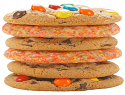
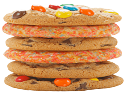
took out white background of pictures, added meta viewport

diff --git a/cookies.html b/cookies.html
@@ -3,6 +3,7 @@
 
 <head>
   <meta charset="utf-8">
+  <meta name="viewport" content="width=device-width, initial-scale=1">
   <meta name="description" content="Ice Cream Website">
   <meta name="keywords" content="treat, ice cream, maggie moos, cookies, cake, yum, good, delicious">
   <meta name="author" content="HDH">
@@ -38,7 +39,7 @@
 
   </header>
 
-
+ <!--Start of Cake, Cupcakes, and Cookies list with pictures-->
   <div class="container-fluid">
     <div class="row">
       <div class="col-md-12">
@@ -250,7 +251,7 @@
                 <h6>*Varies depending on choice</h6>
               </div>
               <div class="col-md-6 pink">
-                <img src="img/bday.jpg" alt="">
+                <img src="img/bday.png" alt="">
               </div>
             </div>
             <div class="row">
@@ -259,7 +260,7 @@
                 <h6>*Varies depending on choice</h6>
               </div>
               <div class="col-md-6 green">
-                <img src="img/season.jpg" alt="">
+                <img src="img/season.png" alt="">
               </div>
             </div>
             <div class="row">
@@ -268,7 +269,7 @@
                 <h6>*Varies depending on choice</h6>
               </div>
               <div class="col-md-6 purple">
-                <img src="img/cakeme.jpg" alt="">
+                <img src="img/cakeme.png" alt="">
               </div>
             </div>
             <div class="row">
@@ -277,7 +278,7 @@
                 <h6>*Varies depending on choice</h6>
               </div>
               <div class="col-md-6 yellow">
-                <img src="img/extra.jpg" alt="">
+                <img src="img/extra.png" alt="">
               </div>
             </div>
             <div class="row">
@@ -286,7 +287,7 @@
                 <h6>*Varies depending on choice</h6>
               </div>
               <div class="col-md-6 purple">
-                <img src="img/mom.jpg" alt="">
+                <img src="img/mom.png" alt="">
               </div>
             </div>
             <div class="row">
@@ -295,7 +296,7 @@
                 <h6>*Varies depending on choice</h6>
               </div>
               <div class="col-md-6 blue">
-                <img src="img/cheer.jpg" alt="">
+                <img src="img/cheer.png" alt="">
               </div>
             </div>
             <div class="row">
@@ -304,7 +305,7 @@
                 <h6>*Varies depending on choice</h6>
               </div>
               <div class="col-md-6 green">
-                <img src="img/thegrad.jpg" alt="">
+                <img src="img/thegrad.png" alt="">
               </div>
             </div>
           </div>
@@ -477,7 +478,7 @@
                   <h6>240 Calories</h6>
                 </div>
                 <div class="col-md-3">
-                  <img src="img/m&m.png" alt="">
+                  <img src="img/mm.png" alt="">
                 </div>
               </div>
               <div class="row">
@@ -486,7 +487,7 @@
                   <h6>250 Calories</h6>
                 </div>
                 <div class="col-md-3">
-                  <img src="img/pbm&m.png" alt="">
+                  <img src="img/pbmm.png" alt="">
                 </div>
                 <div class="col-md-3">
                   <h5>Original Chocolate Chip</h5>

diff --git a/index.html b/index.html
@@ -76,7 +76,7 @@
           five Blue Ribbon Awards from the National Ice Cream Retailer’s Association. Our ice cream and low fat yogurt are made fresh just for you! We have over 40 flavors and many fruits, candy or nut mix-ins to choose from. Who ever said you can’t
           it have it all, should call Maggie Moo’s.
         </p>
-        <p><a class="btn link" href="file:///C:/Users/kolbee.hulsey/Documents/GitHub/Maggie-Moos/icecream.html">View details »</a></p>
+        <p><a class="btn link" href="icecream.html">View details »</a></p>
       </div>
       <div class="col-md-4">
         <h2>Cake</h2>
@@ -84,7 +84,7 @@
           Our beloved ice cream cakes are hand-crafted with love and perfection just for you! They are excellent for any event or special occasion. With mix-ins from yummy fruits, nuts, and the sweetest candies and most delicious cookies. To top it
           off we slather on a rich icing to have your taste bud watering.
         </p>
-        <p><a class="btn link" href="file:///C:/Users/kolbee.hulsey/Documents/GitHub/Maggie-Moos/cookies.html">View details »</a>
+        <p><a class="btn link" href="cookies.html">View details »</a>
         </p>
       </div>
       <div class="col-md-4">
@@ -93,7 +93,7 @@
           From generations of authentic recipes, Great American Cookies, set the expectation for delicious cookies and cookie cakes. All of our cookies and brownies are tested cautiously in a controlled production using nothing less than the finest
           ingredients. Our superior treats are handcrafted to perfection and baked with warm love.
         </p>
-        <p><a class="btn link" href="file:///C:/Users/kolbee.hulsey/Documents/GitHub/Maggie-Moos/cookies.html#link">View details »</a></p>
+        <p><a class="btn link" href="cookies.html#link">View details »</a></p>
       </div>
     </div>
   </div>
